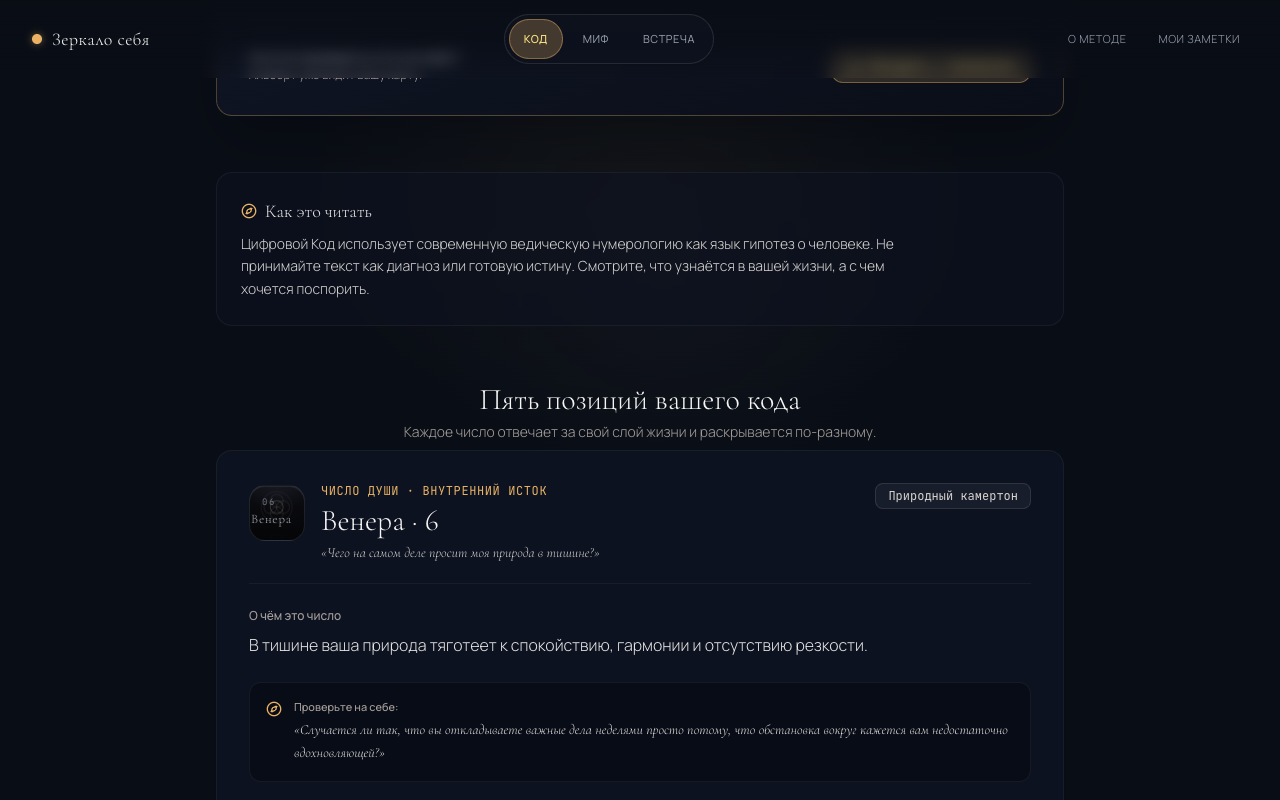
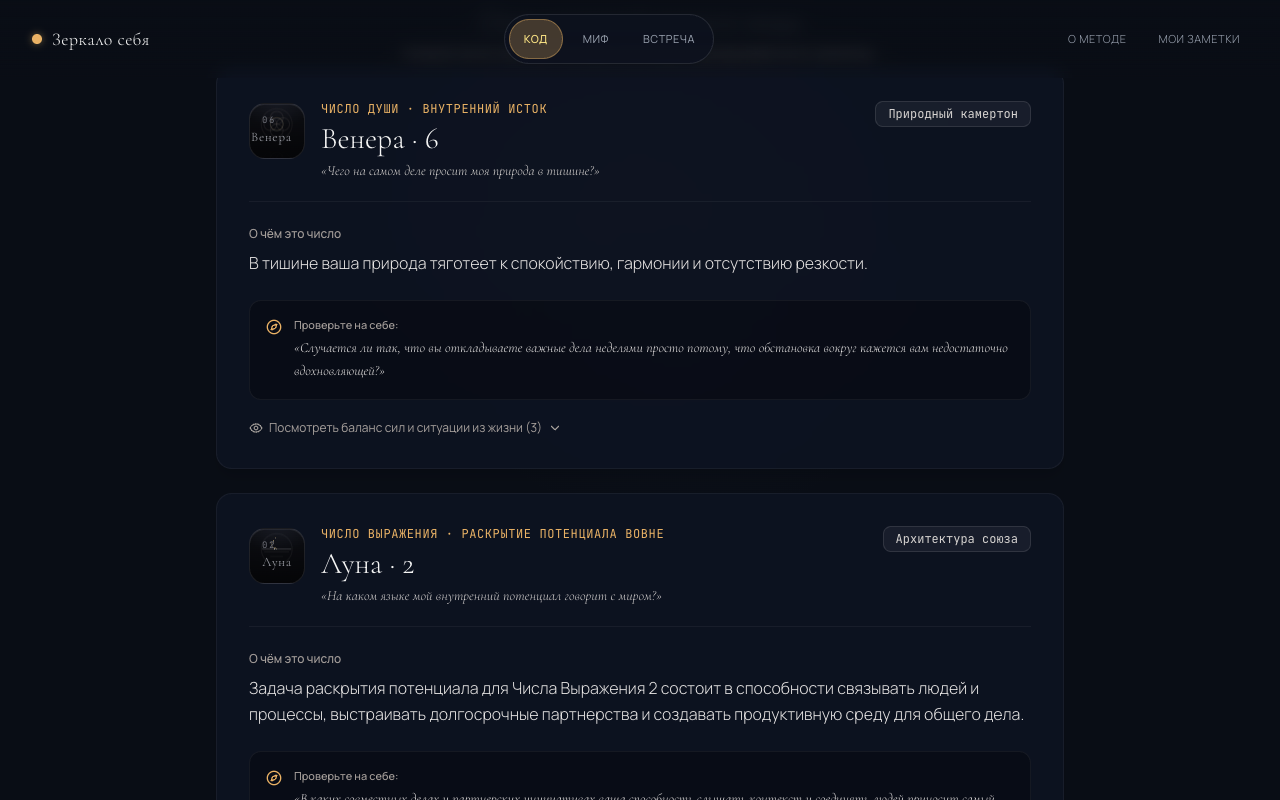
fix(code-v2): unify curiosity-first opening sequence, remove redundant cards, and enforce strict word budget

diff --git a/src/components/CodeV2/CodeV2Experience.tsx b/src/components/CodeV2/CodeV2Experience.tsx
@@ -202,10 +202,17 @@ export function CodeV2Experience({
               <h1 className="font-serif text-3xl sm:text-5xl font-light text-stone-100 tracking-tight mb-4">
                 Ваш Цифровой Код
               </h1>
-              <p className="text-sm sm:text-base text-stone-300 font-light leading-relaxed max-w-lg mx-auto">
-                Дата рождения здесь превращается не в одну цифру, а в пять разных позиций.
-                Они показывают: что движет вами изнутри, как раскрывается ваш потенциал, как вы действуете, в какой среде ваши силы собираются, и во что всё это может складываться со временем.
-              </p>
+              <div className="text-sm sm:text-base text-stone-300 font-light leading-relaxed max-w-lg mx-auto space-y-3">
+                <p>
+                  Дата рождения здесь превращается не в одну цифру,
+                  а в пять разных позиций.
+                </p>
+                <p className="text-stone-400 text-xs sm:text-sm">
+                  Они показывают: что движет вами изнутри, как раскрывается ваш потенциал,
+                  как вы действуете, в какой среде ваши силы собираются,
+                  и во что всё это может складываться со временем.
+                </p>
+              </div>
             </div>
 
             {/* QA Presets: Only shown if isQaMode */}
@@ -363,120 +370,124 @@ export function CodeV2Experience({
               </button>
             </div>
 
-            {/* 1. FIVE NUMBERS RIBBON & EXPANDABLE CALCULATION */}
-            <section className="w-full bg-[#0D1322]/80 border border-white/5 rounded-2xl p-5 sm:p-7 backdrop-blur-md">
-              <div className="flex flex-col sm:flex-row sm:items-center justify-between gap-3 mb-4 pb-3 border-b border-white/5">
-                <div className="text-xs font-mono uppercase tracking-wider text-[var(--color-antique-gold)]">
+            {/* 1. HERO OPENING: FIVE NUMBERS & CENTRAL MOTIF (MEANING FIRST) */}
+            <section className="w-full bg-gradient-to-br from-[#12192B] via-[#0E1524] to-[#0A0E18] border border-[var(--color-antique-gold)]/30 rounded-3xl p-6 sm:p-9 relative shadow-2xl overflow-hidden">
+              <div className="absolute top-0 right-0 w-96 h-96 bg-[radial-gradient(circle_at_top_right,rgba(200,164,93,0.12),transparent_70%)] pointer-events-none" />
+
+              {/* A. Five Numbers Visually (Editorial Typographic Strip) */}
+              <div className="flex flex-col items-center text-center mb-7 relative z-10">
+                <div className="text-[10px] sm:text-[11px] font-mono tracking-widest uppercase text-[var(--color-antique-gold)]/80 mb-3">
                   Пять позиций вашей карты
                 </div>
+
+                <div className="flex items-center justify-center gap-2 sm:gap-6 flex-wrap py-2">
+                  {payload.positions.map((pos, idx) => (
+                    <React.Fragment key={pos.position}>
+                      <div className="flex flex-col items-center px-1.5 sm:px-3">
+                        <span className="font-serif text-3xl sm:text-5xl text-amber-100 font-light leading-none">
+                          {pos.energy}
+                        </span>
+                        <span className="text-[10px] sm:text-xs text-[var(--color-antique-gold)] font-medium mt-1.5">
+                          {pos.energy_name}
+                        </span>
+                        <span className="text-[9px] sm:text-[10px] font-mono text-stone-400 uppercase tracking-wider mt-0.5">
+                          {pos.public_name.replace('Число ', '')}
+                        </span>
+                      </div>
+                      {idx < payload.positions.length - 1 && (
+                        <span className="text-stone-600 text-lg sm:text-2xl font-light select-none pb-4 sm:pb-5">·</span>
+                      )}
+                    </React.Fragment>
+                  ))}
+                </div>
+              </div>
+
+              {/* B & C. Central Human Motif (Heading + Why It Matters) */}
+              <div className="pt-6 border-t border-white/10 relative z-10">
+                <div className="text-[10px] sm:text-[11px] font-mono tracking-widest uppercase text-[var(--color-antique-gold)]/80 mb-2">
+                  Центральный нерв карты
+                </div>
+
+                <h2 className="font-serif text-2xl sm:text-3xl text-stone-100 font-light mb-4 leading-snug">
+                  {payload.albert_context?.strongest_hypothesis || 'Внутренний контраст вашей карты'}
+                </h2>
+
+                <div className="pl-4 border-l-2 border-[var(--color-antique-gold)]/60 text-sm sm:text-base text-stone-200 leading-relaxed font-light mb-6">
+                  <p>{getFirstSentence(payload.synthesis.strongest_motif)}</p>
+                </div>
+
+                {/* Quiet Albert Invitation right after central motif */}
+                <div className="pt-5 border-t border-white/10 flex flex-col sm:flex-row sm:items-center justify-between gap-4">
+                  <div>
+                    <div className="text-sm text-stone-200 font-medium">
+                      Хотите проверить это на себе?
+                    </div>
+                    <div className="text-xs text-stone-400 font-light mt-0.5">
+                      Альберт уже видит вашу карту.
+                    </div>
+                  </div>
+                  <button
+                    type="button"
+                    onClick={() => onOpenAlbert(payload)}
+                    className="self-start sm:self-auto px-4 py-2.5 rounded-xl bg-[var(--color-antique-gold)]/15 border border-[var(--color-antique-gold)]/40 hover:bg-[var(--color-antique-gold)]/25 text-amber-200 text-xs font-mono transition-all flex items-center gap-2 cursor-pointer shadow-sm"
+                  >
+                    <MessageSquare className="w-3.5 h-3.5" />
+                    <span>Обсудить с Альбертом</span>
+                  </button>
+                </div>
+              </div>
+
+              {/* D. Expandable Calculation: "Вот откуда это взялось" (Meaning first, calculation second) */}
+              <div className="mt-6 pt-4 border-t border-white/10 relative z-10">
                 <button
                   type="button"
                   onClick={() => setShowCalcChain(!showCalcChain)}
-                  className="text-xs text-stone-400 hover:text-stone-200 transition-colors cursor-pointer flex items-center gap-1.5 self-start sm:self-auto"
+                  className="text-xs text-stone-400 hover:text-stone-200 transition-colors cursor-pointer flex items-center gap-1.5"
                 >
-                  <Calculator className="w-3.5 h-3.5" />
+                  <Calculator className="w-3.5 h-3.5 text-[var(--color-antique-gold)]" />
                   <span>{showCalcChain ? 'Скрыть ход расчёта' : 'Вот откуда это взялось'}</span>
-                  {showCalcChain ? <ChevronUp className="w-3.5 h-3.5" /> : <ChevronDown className="w-3.5 h-3.5" />}
+                  {showCalcChain ? <ChevronUp className="w-3.5 h-3.5" /> : <ChevronDown className="w-3.5 h-3.5 text-stone-400" />}
                 </button>
-              </div>
 
-              {/* 5-Number Strip */}
-              <div className="grid grid-cols-2 sm:grid-cols-5 gap-3">
-                {payload.positions.map((pos) => (
-                  <div
-                    key={pos.position}
-                    className="bg-black/30 border border-white/5 rounded-xl p-3.5 flex flex-col items-center text-center transition-all hover:border-[var(--color-antique-gold)]/20"
-                  >
-                    <span className="text-[10px] font-mono text-stone-400 uppercase tracking-wider mb-1 truncate w-full">
-                      {pos.public_name}
-                    </span>
-                    <div className="font-serif text-3xl sm:text-4xl text-amber-100 font-light leading-none my-1">
-                      {pos.energy}
-                    </div>
-                    <div className="text-xs text-[var(--color-antique-gold)] font-medium">
-                      {pos.energy_name}
-                    </div>
-                    <div className="text-[10px] text-stone-400 mt-1 line-clamp-1">
-                      {pos.role}
-                    </div>
-                  </div>
-                ))}
-              </div>
-
-              {/* Expandable arithmetic chain */}
-              <AnimatePresence>
-                {showCalcChain && (
-                  <motion.div
-                    initial={{ opacity: 0, height: 0 }}
-                    animate={{ opacity: 1, height: 'auto' }}
-                    exit={{ opacity: 0, height: 0 }}
-                    transition={{ duration: 0.25 }}
-                    className="mt-6 pt-5 border-t border-white/10 overflow-hidden"
-                  >
-                    <div className="text-xs font-mono uppercase tracking-wider text-stone-400 mb-3">
-                      Откуда взялись эти числа:
-                    </div>
-                    <div className="space-y-2">
-                      {payload.calculation.calculation_chain.map((step, idx) => (
-                        <div
-                          key={step.position}
-                          className="flex flex-col sm:flex-row sm:items-center justify-between gap-2 p-3 bg-white/2 rounded-xl border border-white/5 text-xs"
-                        >
-                          <div className="flex items-center gap-2.5">
-                            <span className="w-5 h-5 rounded-full bg-white/10 text-stone-300 font-mono text-[10px] flex items-center justify-center">
-                              {idx + 1}
-                            </span>
-                            <span className="font-medium text-stone-200">{step.public_name}:</span>
-                            <span className="text-stone-400">{step.formula_label}</span>
+                <AnimatePresence>
+                  {showCalcChain && (
+                    <motion.div
+                      initial={{ opacity: 0, height: 0 }}
+                      animate={{ opacity: 1, height: 'auto' }}
+                      exit={{ opacity: 0, height: 0 }}
+                      transition={{ duration: 0.25 }}
+                      className="mt-4 pt-4 border-t border-white/5 overflow-hidden"
+                    >
+                      <div className="text-xs font-mono uppercase tracking-wider text-stone-400 mb-3">
+                        Откуда взялись эти числа:
+                      </div>
+                      <div className="space-y-2">
+                        {payload.calculation.calculation_chain.map((step, idx) => (
+                          <div
+                            key={step.position}
+                            className="flex flex-col sm:flex-row sm:items-center justify-between gap-2 p-3 bg-black/40 rounded-xl border border-white/5 text-xs"
+                          >
+                            <div className="flex items-center gap-2.5">
+                              <span className="w-5 h-5 rounded-full bg-white/10 text-stone-300 font-mono text-[10px] flex items-center justify-center">
+                                {idx + 1}
+                              </span>
+                              <span className="font-medium text-stone-200">{step.public_name}:</span>
+                              <span className="text-stone-400">{step.formula_label}</span>
+                            </div>
+                            <div className="flex items-center gap-3">
+                              <code className="font-mono text-amber-200 bg-black/60 px-2.5 py-1 rounded-md border border-white/5">
+                                {step.calculation}
+                              </code>
+                              <span className="text-[11px] text-stone-400 hidden sm:inline">
+                                {step.rule}
+                              </span>
+                            </div>
                           </div>
-                          <div className="flex items-center gap-3">
-                            <code className="font-mono text-amber-200 bg-black/40 px-2.5 py-1 rounded-md border border-white/5">
-                              {step.calculation}
-                            </code>
-                            <span className="text-[11px] text-stone-400 hidden sm:inline">
-                              {step.rule}
-                            </span>
-                          </div>
-                        </div>
-                      ))}
-                    </div>
-                  </motion.div>
-                )}
-              </AnimatePresence>
-            </section>
-
-            {/* 2. CENTRAL HUMAN MOTIF (MEANING FIRST) */}
-            <section className="w-full bg-gradient-to-br from-[#12192B] to-[#0A0E18] border border-[var(--color-antique-gold)]/30 rounded-2xl p-6 sm:p-8 relative shadow-2xl">
-              <div className="text-[11px] font-mono tracking-widest uppercase text-[var(--color-antique-gold)]/80 mb-2">
-                Центральный нерв карты
-              </div>
-
-              <h2 className="font-serif text-2xl sm:text-3xl text-stone-100 font-light mb-4">
-                {payload.albert_context.strongest_hypothesis || 'Внутренний контраст вашей карты'}
-              </h2>
-
-              <div className="pl-4 border-l-2 border-[var(--color-antique-gold)]/60 text-sm sm:text-base text-stone-200 leading-relaxed font-light space-y-3">
-                <p>{getFirstSentence(payload.synthesis.strongest_motif)}</p>
-              </div>
-
-              {/* Quiet Albert Invitation after central motif */}
-              <div className="mt-6 pt-5 border-t border-white/10 flex flex-col sm:flex-row sm:items-center justify-between gap-4">
-                <div>
-                  <div className="text-sm text-stone-200 font-medium">
-                    Хотите проверить это на себе?
-                  </div>
-                  <div className="text-xs text-stone-400 font-light mt-0.5">
-                    Альберт уже видит вашу карту.
-                  </div>
-                </div>
-                <button
-                  type="button"
-                  onClick={() => onOpenAlbert(payload)}
-                  className="self-start sm:self-auto px-4 py-2.5 rounded-xl bg-[var(--color-antique-gold)]/15 border border-[var(--color-antique-gold)]/40 hover:bg-[var(--color-antique-gold)]/25 text-amber-200 text-xs font-mono transition-all flex items-center gap-2 cursor-pointer shadow-sm"
-                >
-                  <MessageSquare className="w-3.5 h-3.5" />
-                  <span>Обсудить с Альбертом</span>
-                </button>
+                        ))}
+                      </div>
+                    </motion.div>
+                  )}
+                </AnimatePresence>
               </div>
             </section>
 
@@ -675,46 +686,7 @@ export function CodeV2Experience({
               </div>
             </section>
 
-            {/* 6. DEVELOPING ENVIRONMENT & MATURE SYNTHESIS */}
-            <section className="w-full grid grid-cols-1 md:grid-cols-2 gap-6">
-              {/* Развивающая среда */}
-              <div className="bg-[#0D1322]/80 border border-white/5 rounded-2xl p-6 sm:p-7 backdrop-blur-md flex flex-col justify-between">
-                <div>
-                  <div className="text-xs font-mono uppercase tracking-wider text-[var(--color-antique-gold)] mb-1">
-                    Развивающая среда
-                  </div>
-                  <h3 className="font-serif text-xl sm:text-2xl text-stone-100 font-light mb-2">
-                    {payload.positions[3].public_name}: {payload.positions[3].energy_name} · {payload.positions[3].energy}
-                  </h3>
-                  <div className="text-xs font-serif italic text-stone-400 mb-3">
-                    «{payload.positions[3].role_question}»
-                  </div>
-                  <p className="text-xs sm:text-sm text-stone-300 font-light leading-relaxed">
-                    {getFirstSentence(payload.synthesis.environment.summary)}
-                  </p>
-                </div>
-              </div>
-
-              {/* Зрелое проявление */}
-              <div className="bg-[#0D1322]/80 border border-white/5 rounded-2xl p-6 sm:p-7 backdrop-blur-md flex flex-col justify-between">
-                <div>
-                  <div className="text-xs font-mono uppercase tracking-wider text-[var(--color-antique-gold)] mb-1">
-                    Зрелое проявление
-                  </div>
-                  <h3 className="font-serif text-xl sm:text-2xl text-stone-100 font-light mb-2">
-                    {payload.positions[4].public_name}: {payload.positions[4].energy_name} · {payload.positions[4].energy}
-                  </h3>
-                  <div className="text-xs font-serif italic text-stone-400 mb-3">
-                    «{payload.positions[4].role_question}»
-                  </div>
-                  <p className="text-xs sm:text-sm text-stone-300 font-light leading-relaxed">
-                    {getFirstSentence(payload.synthesis.mature_integration.summary)}
-                  </p>
-                </div>
-              </div>
-            </section>
-
-            {/* 7. VERIFICATION QUESTIONS */}
+            {/* 5. VERIFICATION QUESTIONS */}
             <section className="w-full bg-[#0D1322]/80 border border-white/5 rounded-2xl p-6 sm:p-8 backdrop-blur-md">
               <h2 className="font-serif text-2xl sm:text-3xl text-stone-100 font-light mb-2">
                 Вопросы для проверки карты

diff --git a/server/code_v2_human_ui.test.ts b/server/code_v2_human_ui.test.ts
@@ -45,7 +45,7 @@ describe('Code V2 Human Product Experience UI Contract', () => {
   it('normal calculated view (?preview=v2) contains none of the forbidden terms, fits word budget and exhibits human language', async () => {
     const payload = await calculateCanonicalCodeV2('06.05.1986');
 
-    // Default collapsed view: word budget 450-700 words
+    // Default collapsed view: word budget strictly 450-700 words
     const html = renderToString(
       React.createElement(CodeV2Experience, {
         initialDate: '06.05.1986',
@@ -59,11 +59,29 @@ describe('Code V2 Human Product Experience UI Contract', () => {
       expect(html).not.toContain(term);
     }
 
+    // Must NOT contain internal taxonomy terms in normal view
+    const FORBIDDEN_TAXONOMY = ['TENSION', 'RESONANCE', 'AMPLIFICATION', 'BRAKE', 'COMPENSATION'];
+    for (const tax of FORBIDDEN_TAXONOMY) {
+      expect(html).not.toContain(tax);
+    }
+
+    // Visible text budget: 450-700 Russian words
+    const textOnly = html.replace(/<[^>]*>/g, ' ');
+    const ruWords = textOnly.match(/[а-яА-ЯёЁ]+/g) || [];
+    expect(ruWords.length).toBeGreaterThanOrEqual(450);
+    expect(ruWords.length).toBeLessThanOrEqual(700);
+
+    // Sequence verification: 5 numbers visually, central motif, quiet Albert link, expandable calculation
+    expect(html).toContain('Пять позиций вашей карты');
+    expect(html).toContain('Покой внутри — жёсткий мотор в деле');
+    expect(html).toContain('Хотите проверить это на себе?');
+    expect(html).toContain('Вот откуда это взялось');
+
     // Must contain human labels
     expect(html).toContain('Как это читать');
     expect(html).toContain('О чём это число');
     expect(html).toContain('Проверьте на себе');
-    expect(html).toContain('Хотите проверить это на себе?');
+    expect(html).toContain('Вопросы для проверки карты');
     expect(html).toContain('Альберт — собеседник по вашей карте');
     expect(html).toContain('Поговорить с Альбертом');
 
